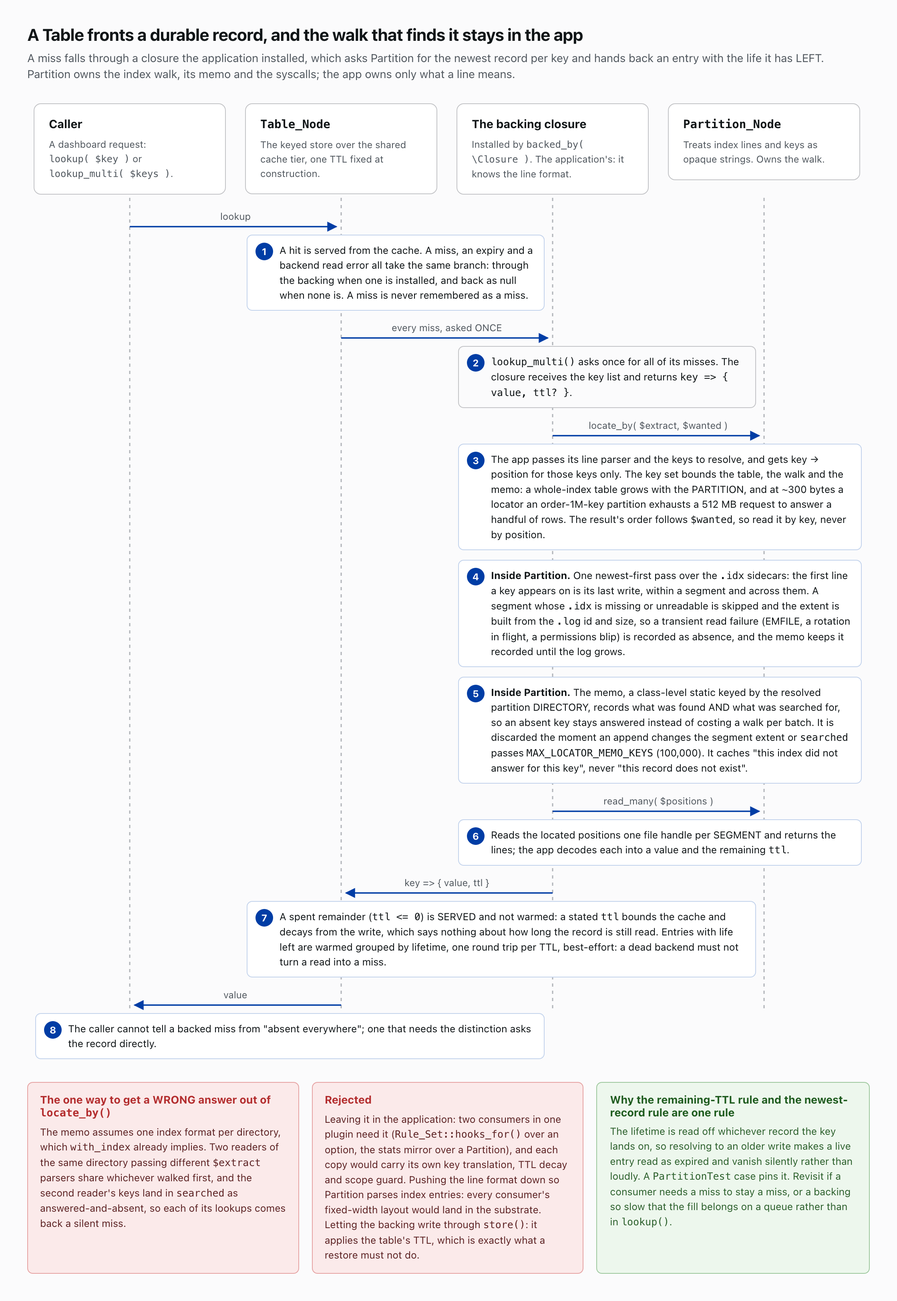
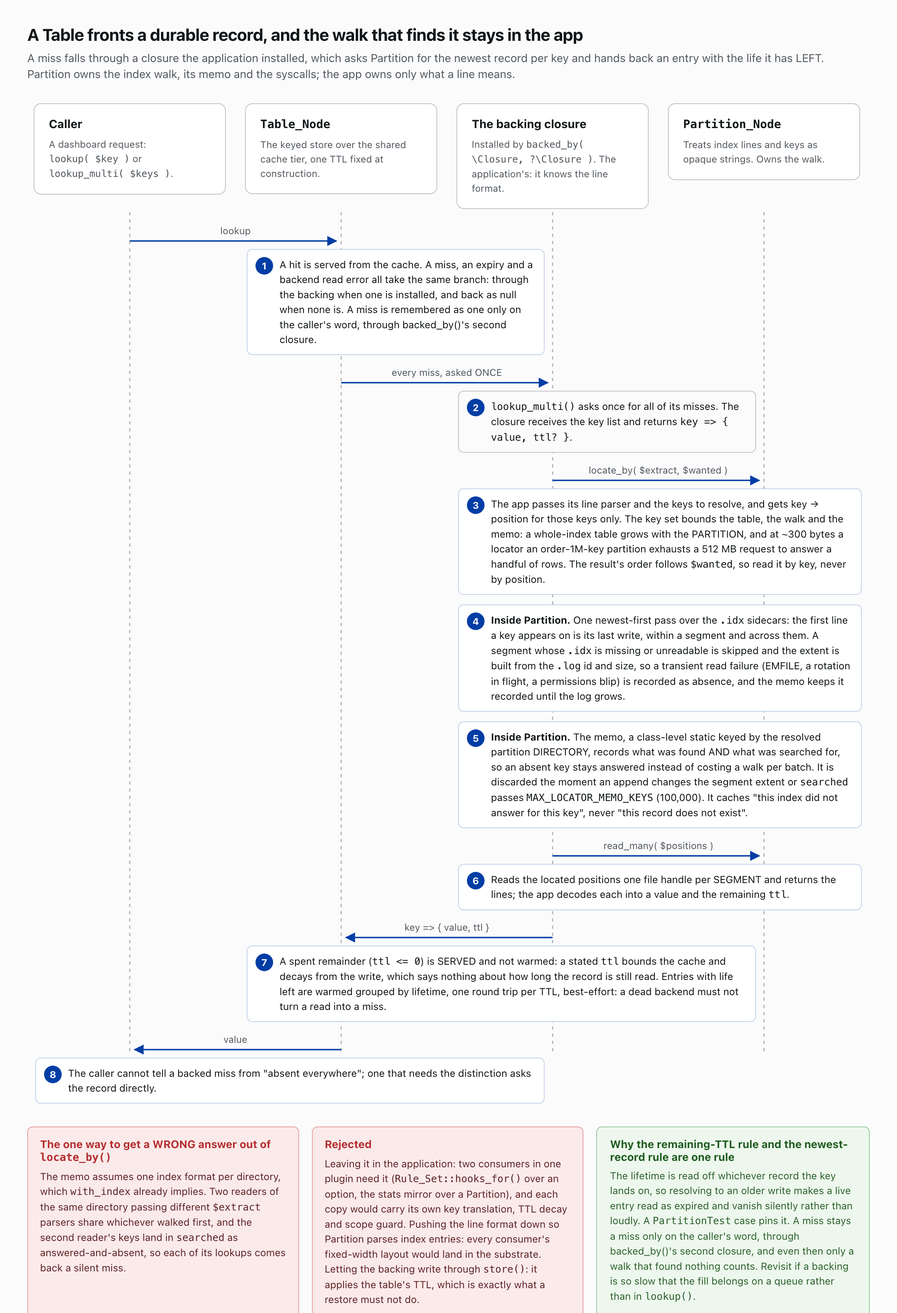
feat(table): a backed Table can remember an absence, on the caller's word
A backing that has to walk to say a key is absent — a partition index,
which stops at a frame it finds and runs to the end to say there is none
— paid that walk on every read of the same absent key, and a reader
polling a window with such keys spent its whole budget on them. The
second closure of backed_by() names, per key, how long an absence holds;
the table adds a marker for that long and reads it as a miss without
asking again. Four rules keep the marker honest: the hold is the
caller's word, only a table that installed the closure honours a marker,
the marker is added and never displaces a value that landed during the
walk, and a backing that answers null looked at nothing and records
nothing. ADR-18 records them.

diff --git a/docs/img/adr-table-backing.html b/docs/img/adr-table-backing.html
@@ -23,10 +23,10 @@
 
 <div class="lane card" data-lane="0"><h3>Caller</h3><p>A dashboard request: <span class="mono" style="white-space:nowrap">lookup( $key )</span> or <span class="mono" style="white-space:nowrap">lookup_multi( $keys )</span>.</p></div>
 <div class="lane card" data-lane="1"><h3><span class="mono">Table_Node</span></h3><p>The keyed store over the shared cache tier, one TTL fixed at construction.</p></div>
-<div class="lane card" data-lane="2"><h3>The backing closure</h3><p>Installed by <span class="mono">backed_by( \Closure )</span>. The application's: it knows the line format.</p></div>
+<div class="lane card" data-lane="2"><h3>The backing closure</h3><p>Installed by <span class="mono">backed_by( \Closure, ?\Closure )</span>. The application's: it knows the line format.</p></div>
 <div class="lane card" data-lane="3"><h3><span class="mono">Partition_Node</span></h3><p>Treats index lines and keys as opaque strings. Owns the walk.</p></div>
 
-<div class="hop" data-arrow="0,1" data-cap="lookup" data-span="1,2"><span class="n">1</span>A hit is served from the cache. A miss, an expiry and a backend read error all take the same branch: through the backing when one is installed, and back as null when none is. A miss is never remembered as a miss.</div>
+<div class="hop" data-arrow="0,1" data-cap="lookup" data-span="1,2"><span class="n">1</span>A hit is served from the cache. A miss, an expiry and a backend read error all take the same branch: through the backing when one is installed, and back as null when none is. A miss is remembered as one only on the caller's word, through backed_by()'s second closure.</div>
 
 <div class="hop app" data-arrow="1,2" data-cap="every miss, asked ONCE" data-span="2,3"><span class="n">2</span><span class="mono">lookup_multi()</span> asks once for all of its misses. The closure receives the key list and returns <span class="mono">key => { value, ttl? }</span>.</div>
 
@@ -54,7 +54,7 @@
   </div>
   <div class="ok">
     <h4>Why the remaining-TTL rule and the newest-record rule are one rule</h4>
-    <p>The lifetime is read off whichever record the key lands on, so resolving to an older write makes a live entry read as expired and vanish silently rather than loudly. A <span class="mono">PartitionTest</span> case pins it. Revisit if a consumer needs a miss to stay a miss, or a backing so slow that the fill belongs on a queue rather than in <span class="mono">lookup()</span>.</p>
+    <p>The lifetime is read off whichever record the key lands on, so resolving to an older write makes a live entry read as expired and vanish silently rather than loudly. A <span class="mono">PartitionTest</span> case pins it. A miss stays a miss only on the caller's word, through backed_by()'s second closure, and even then only a walk that found nothing counts. Revisit if a backing is so slow that the fill belongs on a queue rather than in <span class="mono">lookup()</span>.</p>
   </div>
 </div>
 </div>

diff --git a/includes/class-table-node.php b/includes/class-table-node.php
@@ -50,9 +50,24 @@ class Table_Node extends Node {
 	 * Durable system of record behind this table, or null until backed_by()
 	 * opts in. Invoked with the keys a read missed on.
 	 *
-	 * @var (\Closure(list<string>): array<array-key,array{value: mixed,ttl?: int}>)|null
+	 * @var (\Closure(list<string>): ?array<array-key,array{value: mixed,ttl?: int}>)|null
 	 */
 	private ?\Closure $backing = null;
+
+	/**
+	 * How long an absence the backing answered is remembered, per key, in
+	 * seconds; null or 0 remembers none. Set beside the backing.
+	 *
+	 * @var (\Closure(string): int)|null
+	 */
+	private ?\Closure $absence = null;
+
+	/**
+	 * What a remembered absence is stored as. A table value is whatever the
+	 * caller stored, so the marker has to be one nothing stores: a string no
+	 * key names and no encoder emits.
+	 */
+	private const ABSENT = "\0table:absent";
 
 	/**
 	 * Wire the sibling `:config` interpreter that serves `get` and `rm`.
@@ -187,14 +202,22 @@ class Table_Node extends Node {
 			$entry_keys[ self::entry_key( $this->namespace, $key ) ] = $key;
 		}
 		$found   = [];
+		$absent  = [];
 		$fetched = Cache_Backend::shared_first()?->read_multi( \array_keys( $entry_keys ) ) ?? [];
 		foreach ( $fetched as $entry_key => $value ) {
+			// A held absence spares the backing only for the table holding it.
+			if ( self::ABSENT === $value ) {
+				if ( null !== $this->absence ) {
+					$absent[ $entry_keys[ $entry_key ] ] = true;
+				}
+				continue;
+			}
 			$found[ $entry_keys[ $entry_key ] ] = $value;
 		}
 		// ONE backing call for every miss; per-key defeats this round trip.
 		$missed = [];
 		foreach ( $keys as $key ) {
-			if ( ! \array_key_exists( $key, $found ) ) {
+			if ( ! \array_key_exists( $key, $found ) && ! isset( $absent[ $key ] ) ) {
 				$missed[] = $key;
 			}
 		}
@@ -298,7 +321,8 @@ class Table_Node extends Node {
 	 * Only a HIT answers from the cache. A miss, an expiry and a broken backend
 	 * all fall through to the durable backing when one is installed; with none,
 	 * an absent key stays absent, so a caller polling for one it expects sees it
-	 * as soon as the cache does. A miss is never remembered as a miss.
+	 * as soon as the cache does. A miss is remembered as one only by a table
+	 * that asked for that, through `backed_by()`'s second closure.
 	 *
 	 * @api Dashboards / REST / CLI read table values without a live worker.
 	 * @param string $key Key within the table's namespace.
@@ -313,10 +337,11 @@ class Table_Node extends Node {
 			// Null reads as "empty table" downstream; say the backend broke.
 			Core::print_less_often( 'Table: backend read error for ', "{$this->namespace}:{$key}" );
 		}
-		if ( Cache_Backend::READ_HIT !== ( $read['status'] ?? null ) ) {
+		if ( Cache_Backend::READ_HIT !== ( $read['status'] ?? null )
+			|| ( self::ABSENT === $read['value'] && null === $this->absence ) ) {
 			return $this->read_through( [ $key ] )[ $key ] ?? null;
 		}
-		return $read['value'];
+		return self::ABSENT === $read['value'] ? null : $read['value'];
 	}
 
 	/**
@@ -337,6 +362,14 @@ class Table_Node extends Node {
 	 * the whole time. So it costs the entry its cache slot, not the read, and
 	 * what a re-materialized entry is warmed for is the BACKING's to state.
 	 *
+	 * A key the backing did not return is stored as an ABSENCE for the
+	 * lifetime the caller stated for it, so the next reader is spared the walk
+	 * the backing spent saying so. A lifetime of 0 remembers nothing, and so
+	 * does a backing that answers NULL: it did not look — out of budget, its
+	 * record not there yet — and only a walk that found nothing is an absence.
+	 * The marker is ADDED, never set: the walk takes time, a writer's value can
+	 * land inside it, and whatever landed first stands.
+	 *
 	 * @param list<string> $keys Keys that missed.
 	 * @return array<string,mixed> Values recovered, under the caller's keys.
 	 */
@@ -344,9 +377,23 @@ class Table_Node extends Node {
 		if ( [] === $keys || null === $this->backing ) {
 			return [];
 		}
-		$out   = [];
-		$warm  = [];
-		foreach ( ( $this->backing )( $keys ) as $key => $entry ) {
+		$got = ( $this->backing )( $keys );
+		if ( null === $got ) {
+			return [];
+		}
+		$out     = [];
+		$warm    = [];
+		$backend = Cache_Backend::shared_first();
+		$absence = $this->absence;
+		if ( null !== $absence && null !== $backend ) {
+			foreach ( $keys as $key ) {
+				$hold = \array_key_exists( $key, $got ) ? 0 : $absence( $key );
+				if ( $hold > 0 ) {
+					$backend->add( self::entry_key( $this->namespace, $key ), self::ABSENT, $hold );
+				}
+			}
+		}
+		foreach ( $got as $key => $entry ) {
 			// Served either way; a spent remainder is not worth a cache slot.
 			$left = \array_key_exists( 'ttl', $entry ) ? Core::as_int( $entry['ttl'] ) : $this->ttl;
 			if ( $left > 0 ) {
@@ -356,7 +403,6 @@ class Table_Node extends Node {
 			$out[ (string) $key ] = $entry['value'];
 		}
 		// Best-effort: a dead backend must not turn a read into a miss.
-		$backend = Cache_Backend::shared_first();
 		foreach ( $warm as $ttl => $items ) {
 			$backend?->write_multi( $items, $ttl );
 		}
@@ -435,13 +481,25 @@ class Table_Node extends Node {
 	 * absent keys stay absent. `ttl` is that entry's REMAINING life — omit it
 	 * to store under the table's own.
 	 *
+	 * An absence costs the backing as much as a hit, often more: a partition
+	 * walk can stop at the frame it finds and must run to the end to say a key
+	 * has none. `$absence` says, per key, how many seconds that answer holds,
+	 * and the table remembers it for that long so no later reader asks again.
+	 * Omit it, or answer 0, and every miss reaches the backing. A table that
+	 * did not ask reads a remembered absence as an ordinary miss, so a writer
+	 * sharing the key is never told by a reader's marker that it holds
+	 * nothing. A backing that could not look answers null and nothing is
+	 * remembered of that read.
+	 *
 	 * @api Callers whose table fronts a durable source (a partition, an option).
-	 * @param \Closure(list<string>): array<array-key,array{value: mixed,ttl?: int}> $backing Durable reader.
-	 *        A numeric-string key comes back int, so the shape is array-key.
+	 * @param \Closure(list<string>): ?array<array-key,array{value: mixed,ttl?: int}> $backing Durable reader;
+	 *        null when it could not look. A numeric-string key comes back int, so the shape is array-key.
+	 * @param (\Closure(string): int)|null $absence Seconds an absence of the key holds; null remembers none.
 	 * @return self For chaining off table().
 	 */
-	public function backed_by( \Closure $backing ): self {
+	public function backed_by( \Closure $backing, ?\Closure $absence = null ): self {
 		$this->backing = $backing;
+		$this->absence = $absence;
 		return $this;
 	}
 

diff --git a/tests/unit/TableNodeTest.php b/tests/unit/TableNodeTest.php
@@ -399,6 +399,92 @@ class TableNodeTest extends TestCase {
 		$this->assertEqualsWithDelta( \time() + 5, $expiry, 2, 'stored under the entry\'s own remaining life, not the table\'s 600' );
 	}
 
+	// --- backed_by: an absence the backing answered is remembered ----------
+
+	public function test_an_absent_key_is_remembered_for_the_lifetime_the_caller_states(): void {
+		// A key the record does not hold costs the backing its whole walk to
+		// say so, and nothing lands to spare the next reader. The caller says
+		// how long an absence holds; a bucket that closed never gains a frame.
+		$table = Table_Node::table( 'prices', 600 );
+		$calls = [];
+		$table->backed_by(
+			static function ( array $keys ) use ( &$calls ): array {
+				$calls[] = $keys;
+				return [ 'sku-2' => [ 'value' => [ 'usd' => 200 ] ] ];
+			},
+			static fn ( string $key ): int => 'sku-5' === $key ? 45 : 0
+		);
+
+		$this->assertSame( [ 'sku-2' => [ 'usd' => 200 ] ], $table->lookup_multi( [ 'sku-2', 'sku-5', 'sku-6' ] ) );
+		$this->assertNull( $table->lookup( 'sku-5' ), 'still absent' );
+		$this->assertSame( [ 'sku-2' => [ 'usd' => 200 ] ], $table->lookup_multi( [ 'sku-2', 'sku-5', 'sku-6' ] ) );
+		// sku-5's absence was stated for 45s and is not asked again; sku-6's
+		// lifetime is 0, so it is asked every time.
+		$this->assertSame( [ [ 'sku-2', 'sku-5', 'sku-6' ], [ 'sku-6' ] ], $calls );
+		$expiry = $this->memd->expiries()[ Table_Node::entry_key( 'prices', 'sku-5' ) ] ?? 0;
+		$this->assertEqualsWithDelta( \time() + 45, $expiry, 2, 'the absence holds for the stated lifetime, not the table\'s' );
+	}
+
+	public function test_a_backing_that_did_not_answer_records_no_absence(): void {
+		// A backing that could not look — out of budget, its record not yet
+		// there — says so with null. An absence is a walk that found nothing;
+		// a read that never walked must leave the next reader free to.
+		$table = Table_Node::table( 'prices', 600 );
+		$answered = false;
+		$table->backed_by(
+			static function ( array $keys ) use ( &$answered ): ?array {
+				return $answered ? [ 'sku-3' => [ 'value' => [ 'usd' => 300 ] ] ] : null;
+			},
+			static fn ( string $key ): int => 300
+		);
+
+		$this->assertNull( $table->lookup( 'sku-3' ), 'unanswered reads as a miss' );
+		$this->assertArrayNotHasKey( Table_Node::entry_key( 'prices', 'sku-3' ), $this->memd->expiries(), 'and nothing is held against the key' );
+		$answered = true;
+		$this->assertSame( [ 'usd' => 300 ], $table->lookup( 'sku-3' ), 'the next read asks again' );
+	}
+
+	public function test_only_a_table_that_holds_absences_honours_one(): void {
+		// The worker's store reads through the same key with no absence
+		// closure of its own; a reader's marker must not be its miss, or an
+		// evicted open bucket merges from nothing instead of the held tier.
+		$reader = Table_Node::table( 'prices', 600 );
+		$reader->backed_by( static fn ( array $keys ): array => [], static fn ( string $key ): int => 300 );
+		$this->assertNull( $reader->lookup( 'sku-4' ) );
+
+		$writer = Table_Node::table( 'prices', 600 );
+		$writer->backed_by( static fn ( array $keys ): array => [ 'sku-4' => [ 'value' => [ 'usd' => 400 ] ] ] );
+		$this->assertSame( [ 'usd' => 400 ], $writer->lookup( 'sku-4' ), 'the marker is a miss to a table that never asked for one' );
+		$this->assertSame( [ 'sku-4' => [ 'usd' => 400 ] ], $writer->lookup_multi( [ 'sku-4' ] ) );
+	}
+
+	public function test_an_absence_claims_the_key_and_never_displaces_a_value(): void {
+		// The walk that answers an absence takes a second on a real mirror,
+		// and a writer's value can land inside it. The marker is added, not
+		// set, so whatever landed first stands.
+		$table = Table_Node::table( 'prices', 600 );
+		$table->backed_by(
+			function ( array $keys ) use ( $table ): array {
+				$table->store( 'sku-6', [ 'usd' => 600 ] ); // lands mid-walk
+				return [];
+			},
+			static fn ( string $key ): int => 300
+		);
+
+		$this->assertNull( $table->lookup( 'sku-6' ), 'this read walked and found nothing' );
+		$this->assertSame( [ 'usd' => 600 ], $table->lookup( 'sku-6' ), 'the value that landed mid-walk stands' );
+	}
+
+	public function test_a_remembered_absence_yields_to_a_store(): void {
+		$table = Table_Node::table( 'prices', 600 );
+		$table->backed_by( static fn ( array $keys ): array => [], static fn ( string $key ): int => 300 );
+		$this->assertNull( $table->lookup( 'sku-8' ) );
+		$this->assertArrayHasKey( Table_Node::entry_key( 'prices', 'sku-8' ), $this->memd->expiries(), 'the absence is held in the table' );
+
+		$table->store( 'sku-8', [ 'usd' => 800 ] );
+		$this->assertSame( [ 'usd' => 800 ], $table->lookup( 'sku-8' ), 'a write replaces the absence' );
+	}
+
 	public function test_the_record_is_still_served_when_the_backend_went_away(): void {
 		// Warming the table is best-effort. A store that cannot land must not
 		// turn a successful read of the system of record into a miss.

diff --git a/docs/architecture-decisions.md b/docs/architecture-decisions.md
@@ -886,10 +886,10 @@ reaches past its own store to write, through
 check. Reaching under your own abstraction to write is the tell that it stops one parameter
 short.
 
-**Decision:** [`Table_Node::backed_by( \Closure $backing )`](../includes/class-table-node.php) on the read path, and
+**Decision:** [`Table_Node::backed_by( \Closure $backing, ?\Closure $absence = null )`](../includes/class-table-node.php) on the read path, and
 [`Partition_Node::locate_by( \Closure $extract, array $wanted )`](../includes/class-partition-node.php) + `read_many()` underneath.
 
-![Eight hops across four lanes: the caller, Table_Node, the backing closure and Partition_Node. A miss, an expiry and a backend read error all fall through the backing; lookup_multi asks once for every miss; the app calls locate_by with its line parser and the wanted keys, bounding the walk, and reads by key never by position; Partition walks the .idx sidecars newest-first so the first hit is the last write, skipping a segment whose index is unreadable; a class-level memo keyed by directory records what was found and what was searched and is discarded on a new extent or past MAX_LOCATOR_MEMO_KEYS 100,000; read_many reads one handle per segment; a spent ttl is served and not warmed while live entries are warmed grouped by lifetime, best-effort; the caller cannot tell a backed miss from absent everywhere. Cards give the one wrong answer, the rejected shapes and why the remaining-TTL and newest-record rules are one rule.](img/adr-table-backing.png)
+![Eight hops across four lanes: the caller, Table_Node, the backing closure and Partition_Node. A miss, an expiry and a backend read error all fall through the backing; lookup_multi asks once for every miss; the app calls locate_by with its line parser and the wanted keys, bounding the walk, and reads by key never by position; Partition walks the .idx sidecars newest-first so the first hit is the last write, skipping a segment whose index is unreadable; a class-level memo keyed by directory records what was found and what was searched and is discarded on a new extent or past MAX_LOCATOR_MEMO_KEYS 100,000; read_many reads one handle per segment; a spent ttl is served and not warmed while live entries are warmed grouped by lifetime, best-effort; a miss is remembered as one only on the caller's word, through backed_by's second closure; the caller cannot tell a backed miss from absent everywhere. Cards give the one wrong answer, the rejected shapes and why the remaining-TTL and newest-record rules are one rule.](img/adr-table-backing.png)
 
 That does not reopen "one table, one lifetime", which governs what a CALLER stores: a
 backing is re-materializing an entry that already had a life, and handing it a fresh full
@@ -904,9 +904,26 @@ failure becomes a data failure.
 Finding WHICH durable record answers a key is the app's business, not the table's.
 `Partition_Node` treats index lines as opaque strings because the formatter that wrote them
 belongs to the caller (`with_index`), and a key is as opaque to Partition as a line is. The
-memo's negative caching is not the kind the reopen condition means: it is per process and
-caches "this index did not answer for this key", never "this record does not exist"; a reader
-that must distinguish those asks the record.
+memo caches "this index did not answer for this key" per process and never "this record does
+not exist"; PHP statics end with the request, so it spares repeats inside one read and nothing
+across reads.
+
+A miss CAN stay a miss, on the caller's word. The second closure of `backed_by()` says, per
+key, how many seconds an absence the backing answered holds, and the table stores a marker
+for that long and reads it as a miss without asking again. It came from the stats mirror: an
+absent key is the one a newest-first index walk cannot stop early on, a full pass of every
+segment where a present key costs the segment that holds it, and a sparse reporting server
+has such keys in every window, so a polling dashboard spent its whole read budget re-learning
+the same absences on every poll and its per-server series never filled in. Four rules keep
+the marker honest, each pinned in `tests/unit/TableNodeTest.php`. The hold is the caller's
+statement, since only it knows that a closed bucket never gains a frame and an open one may.
+Only a table that installed the closure honours a marker; to any other it is an ordinary
+miss, so a writer reading through the same key is never told by a reader that it holds
+nothing, which would have merged an evicted open bucket from zero instead of from the
+held-frame tier. The marker is added, never set: the walk that answers an absence takes time,
+a writer's value can land inside it, and whatever landed first stands. And a backing that
+could not look answers null — a spent budget, a partition not yet resolved — and nothing is
+remembered of that read; only a walk that found nothing is an absence.
 
 `locate_by()` resolves a key to its NEWEST record in one newest-first pass, because the
 remaining-`ttl` rule reads the lifetime off whichever record the key lands on: an older write
@@ -923,12 +940,13 @@ table's TTL, which is exactly what a restore must not do.
 
 **Consequences:** A table with a backing cannot report a miss the caller can
 distinguish from "absent everywhere" — that is the point. The backing is invoked on the read
-path, so a slow system of record becomes read latency; `lookup_multi()` batching and
-`locate_by()`'s memo are what keep that to one walk per reader rather than one per key.
+path, so a slow system of record becomes read latency; `lookup_multi()` batching keeps that to
+one walk per read rather than one per key, and a remembered absence keeps a walk that found
+nothing from being repeated on the next read. A marker occupies a cache slot for its hold, one
+per absent key the caller chose to remember.
 
-**Revisit if:** a consumer needs a miss to stay a miss (a negative cache), or a backing whose
-cost makes synchronous read-through wrong — at which point the fill belongs on a queue rather
-than in `lookup()`.
+**Revisit if:** a backing whose cost makes synchronous read-through wrong even with absences
+remembered — at which point the fill belongs on a queue rather than in `lookup()`.
 
 ---
 

diff --git a/.claude/skills/nodes-review/SKILL.md b/.claude/skills/nodes-review/SKILL.md
@@ -236,7 +236,7 @@ The union is POSITIONAL, and index 0 is the routing target only when a routing t
 
 ### 12. A Table may front a durable record; the walk stays in the app (ADR-18)
 
-`Table_Node::backed_by( \Closure $backing )` lets `lookup()` and `lookup_multi()` fall through on a miss, store what comes back, and serve it; `lookup_multi()` hands the WHOLE miss set to the backing in one call, so a per-key backing defeats the round trip it exists for. A restored entry may carry its own remaining `ttl`, because handing it a fresh full TTL would extend the life it is being restored into. A backing must never write through `store()`, which applies the table's own TTL. Warming is best-effort: a cache failure must not become a data failure.
+`Table_Node::backed_by( \Closure $backing, ?\Closure $absence = null )` lets `lookup()` and `lookup_multi()` fall through on a miss, store what comes back, and serve it; the second closure names, per key, how long an absence the backing answered is remembered, and four rules keep that marker honest: the hold is the caller's word, only a table that installed the closure honours a marker, the marker is added and never displaces a value, and a backing that answers null looked at nothing and records nothing — a diff that sets the marker, honours it without the closure, or records one for a null answer is a regression; `lookup_multi()` hands the WHOLE miss set to the backing in one call, so a per-key backing defeats the round trip it exists for. A restored entry may carry its own remaining `ttl`, because handing it a fresh full TTL would extend the life it is being restored into. A backing must never write through `store()`, which applies the table's own TTL. Warming is best-effort: a cache failure must not become a data failure.
 
 The complement is the boundary. Finding WHICH record answers a key is the app's business: `Partition_Node::locate_by( \Closure $extract, array $wanted )` takes the caller's line parser and the key set, and returns key → position for those keys ONLY — the key set is what bounds the walk and the memo, because a whole-index table grows with the partition rather than the query and exhausted a 512 MB request. `read_many()` then reads one file handle per SEGMENT. A diff pushing the line format down into Partition, or dropping the key set to "resolve everything", reopens both bugs. `locate_by()` resolves a key to its NEWEST record in one newest-first pass; `tests/unit/PartitionTest.php::test_locate_by_resolves_a_repeated_key_to_its_newest_record` pins it, and the remaining-TTL rule above is why resolving to an older write would make a live entry vanish silently.
 

diff --git a/CHANGELOG.md b/CHANGELOG.md
@@ -7,6 +7,10 @@ and this project adheres to [Semantic Versioning](https://semver.org/spec/v2.0.0
 
 ## [Unreleased]
 
+### Added
+
+- **A backed Table can remember an absence.** `Table_Node::backed_by()` takes a second closure naming, per key, how many seconds an absence the backing answered holds; the table stores a marker for that long and treats it as a miss without asking the backing again. A backing that has to walk to say a key is absent — a partition index, which can stop at a frame it finds and must run to the end to say there is none — was paying that walk on every read of the same absent key, and a reader polling a window with such keys spent its whole budget on them. A store to the key replaces the marker, the marker is added rather than set so a value that lands during the backing's walk stands, only a table that installed the closure honours a marker, and a backing that answers null — it could not look — records nothing. Omitting the closure, or answering 0, keeps every miss reaching the backing.
+
 ### Fixed
 
 - **The console's autolayout keeps a slice together when several slices share one egress.** A hub was a node of degree six or more, so a page whose five polled slices all target `_shell` laid out as one layering, and there the ordering sweep that runs against the flow keys every feeder of `_shell` alike: each slice's `in` landed rows above its `timer`, the lag growing down the canvas, with its fetcher somewhere between. A hub is now a node with a fan-in of four or more, three times the median fan-in of the fed nodes at least, so those five slices band one per row pair with `_shell` to their right. Fan-in rather than degree because only a fan-in scatters: a node fanning OUT orders its consumers with the flow, and the firehose worker's `request-builder`, feeding four partitions, stays in its flow.

diff --git a/docs/stability.md b/docs/stability.md
@@ -268,7 +268,7 @@ that default comes out once every consumer's floor is past the release that
 added it. [`Partition_Node::locate_by( \Closure $extract, array $wanted )`](../includes/class-partition-node.php)
 is the worked case above: `$wanted`, the key set that bounds the index walk,
 is required because event-logger-nodes is its only caller in the family and
-floors at 2.57.0, past the 2.41.0 that added it.
+floors at 2.58.0, past the 2.41.0 that added it.
 
 ## How a frozen name changes
 
